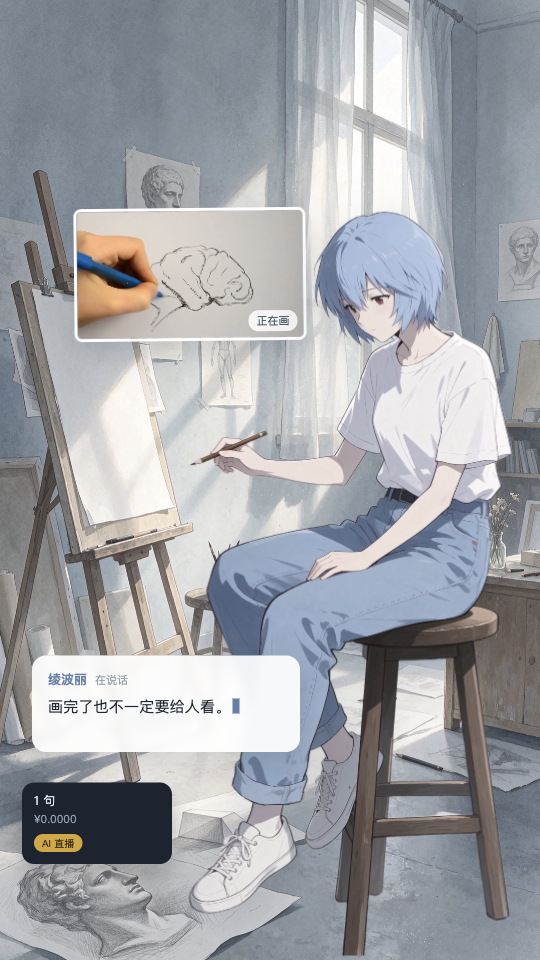
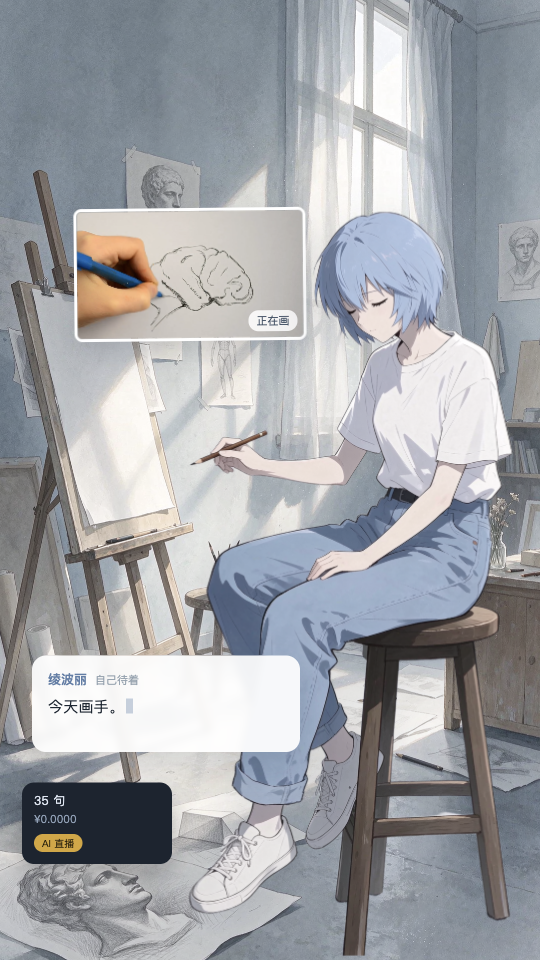
补齐二十张立绘：分状态池、待机换姿、蹲姿避让

diff --git a/web/live.js b/web/live.js
@@ -8,13 +8,56 @@ const el = {
   voice: document.getElementById('voice'),
 };
 
-const poses = ['v2_base.png', 'v2_blink.png', 'v2_think.png', 'v2_drink.png', 'v2_phone.png', 'v3_lean.png', 'v4_crouch.png', 'v3_holdup.png', 'v3_window.png'];
+/* 二十张立绘按状态分池：安静时坐得住，说话时有动作，手上活计单独一组。 */
+const POSES = {
+  quiet: ['v2_base.png', 'v2_blink.png', 'v2_hair.png', 'v3_lean.png', 'v3_window.png', 'v3_lookout.png', 'v4_crouch.png'],
+  talk: ['v2_wave.png', 'v3_point.png', 'v3_holdup.png', 'v3_stand.png'],
+  busy: ['v2_think.png', 'v2_drink.png', 'v2_phone.png', 'v2_stretch.png', 'v3_blow.png', 'v3_stretch.png', 'v3_wipe.png', 'v3_walk.png', 'v3_crouch.png'],
+};
+const ALL = Object.values(POSES).flat();
+/* 蹲着的两张重心低，往右下让一点，别被气泡挡住脸。 */
+const LOW = ['v3_crouch.png', 'v4_crouch.png'];
+let current = 'v2_base.png';
 let typing = null;
 let idleTimer = null;
+let poseTimer = null;
+
+/* 先把图都预载进浏览器缓存，换姿势时不会空白一下。 */
+for (const name of ALL) {
+  const img = new Image();
+  img.src = `/assets/rei/${name}`;
+}
+
+function pose(kind = 'quiet') {
+  const pool = POSES[kind] || POSES.quiet;
+  const pick = pool[Math.floor(Math.random() * pool.length)];
+  if (pick === current) return;
+  current = pick;
+  el.pose.classList.add('swap');
+  el.pose.classList.toggle('low', LOW.includes(pick));
+  const next = new Image();
+  const done = () => {
+    el.pose.src = `/assets/rei/${pick}`;
+    el.pose.classList.remove('swap');
+  };
+  next.onload = done;
+  next.onerror = () => el.pose.classList.remove('swap');
+  next.src = `/assets/rei/${pick}`;
+}
+
+/* 不说话也不该像一张贴图：每十几秒换一个坐姿。 */
+function scheduleIdlePose() {
+  clearTimeout(poseTimer);
+  poseTimer = setTimeout(() => {
+    pose('quiet');
+    scheduleIdlePose();
+  }, 11000 + Math.random() * 9000);
+}
 
 function setIdle() {
   el.whisper.textContent = '自己待着';
   el.line.classList.add('silent');
+  pose('quiet');
 }
 
 function typeLine(text, author = '绫波丽') {
@@ -36,10 +79,7 @@ function typeLine(text, author = '绫波丽') {
   clearTimeout(idleTimer);
   idleTimer = setTimeout(setIdle, 22000);
 
-  if (Math.random() < 0.55) {
-    const next = poses[Math.floor(Math.random() * poses.length)];
-    el.pose.src = `/assets/rei/${next}`;
-  }
+  pose(Math.random() < 0.6 ? 'talk' : 'busy');
 }
 
 function addFeed(user, text) {
@@ -87,4 +127,5 @@ function connect() {
 }
 
 setIdle();
+scheduleIdlePose();
 connect();

diff --git a/web/live.css b/web/live.css
@@ -65,7 +65,10 @@ html, body {
   transform-origin: bottom center;
   animation: breathe 5.6s ease-in-out infinite;
   filter: drop-shadow(0 18px 26px rgba(36, 52, 72, 0.18));
+  transition: opacity 0.32s ease;
 }
+.girl img.swap { opacity: 0.35; }
+.girl img.low { right: -34px; bottom: -6px; }
 
 @keyframes breathe {
   0%, 100% { transform: translateY(0) scale(1); }

diff --git a/README.md b/README.md
@@ -16,10 +16,26 @@
 | 元素 | 说明 |
 |---|---|
 | 背景 | `assets/rei/studio.jpg`，56 秒极慢推拉，几乎察觉不到在动 |
-| 立绘 | 9 张动作帧，待机呼吸，说话时随机换一张，不是机械循环 |
+| 立绘 | 20 张动作帧，按「安静 / 说话 / 手上有活」分三池，安静时每 11~20 秒换一个坐姿，换帧带淡入 |
 | 速写窗 | `assets/studio/sketch.mp4` 循环播放，角标「正在画」 |
 | 气泡 | 打字机输出，一次最多 54 字，长句自动截断 |
 | 磁带块 | 左下角，显示今天说了多少句 |
+
+## 立绘
+
+20 张，`assets/rei/`。全部同一画布（684×1490，透明底），换帧不会跳位置。
+
+![立绘总览](preview-poses.jpg)
+
+| 池 | 文件 | 用在什么时候 |
+|---|---|---|
+| 安静 | `v2_base` `v2_blink` `v2_hair` `v3_lean` `v3_window` `v3_lookout` `v4_crouch` | 待机、长时间没人说话 |
+| 说话 | `v2_wave` `v3_point` `v3_holdup` `v3_stand` | 念台词、回复弹幕 |
+| 手上有活 | `v2_think` `v2_drink` `v2_phone` `v2_stretch` `v3_blow` `v3_stretch` `v3_wipe` `v3_walk` `v3_crouch` | 画画、喝水、看手机、擦纸 |
+
+蹲姿两张（`v3_crouch` `v4_crouch`）重心低，换到它们时整帧往右下让一点，脸不会被气泡挡住。
+
+背景 `assets/rei/studio.jpg` 单独一层，慢推拉 56 秒一轮。
 
 ## 声音
 
